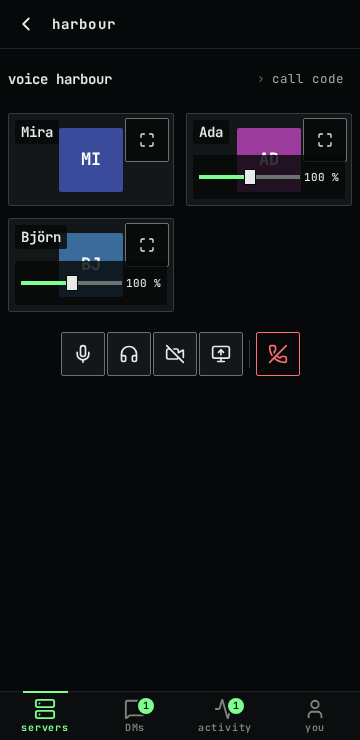
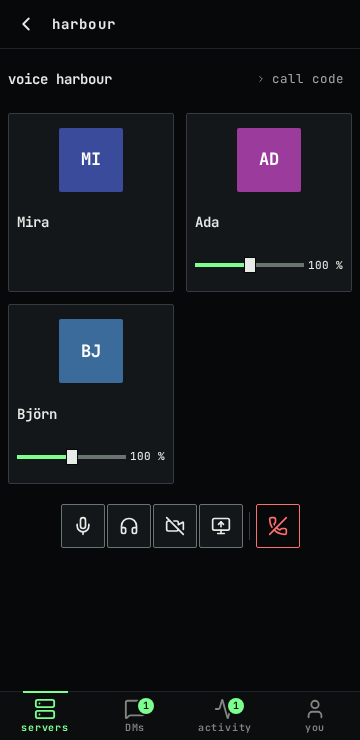
fix(ui): a usable phone stage, full screen only for media, no dead dock CSS
The phone stage at 360 px was two columns of small 16:9 boxes with the volume over the
face: app.css's DM-call compact grid also hit the voice stage. That grid and its tile
padding now apply to the DM call only. On a phone the stage tiles fill the width, one
column for up to two tiles and two columns above (CallStage marks data-many); a tile is
a column in normal flow (the 16:9 media or avatar, the caption, the volume under it).

Final review m8: the full-screen button (and the double-click) is offered only for a
tile that shows media, never an avatar, and only where document.fullscreenEnabled.

Final review m1: the narrow-desktop rules for a dock inside the sidebar are gone; WS6
moved the dock into AppShell's bottom area.

voice-stage-phone.png and voice-stage-desktop.png are shot again.

Claude-Session: https://claude.ai/code/session_01XLFud8eoDaqf8uiZq5wjuP

diff --git a/packages/web/src/app.css b/packages/web/src/app.css
@@ -96,26 +96,14 @@ html, body { margin: 0; height: 100%; background: var(--bg); }
   .dw-dm-call[data-view="messages"] { flex: 0 0 auto; }
   .dw-dm-call[data-view="messages"] .dw-voice-stage { display: none; }
   /* Compact tiles keep the call controls in reach at 360 (review m10); the pause action is a 44 px target (I4). */
-  .dw-voice-stage .d-call-stage__tiles { grid-template-columns: repeat(auto-fill, minmax(min(100%, 9rem), 1fr)); }
-  .dw-voice-stage .d-call-tile { min-height: 0; padding: 0.5rem; }
+  /* web3.8 FX: only the DM call's compact grid; the voice stage (data-tiles="stage") lays out its own phone tiles. */
+  .dw-voice-stage .d-call-stage__tiles:not([data-tiles="stage"]) { grid-template-columns: repeat(auto-fill, minmax(min(100%, 9rem), 1fr)); }
+  .dw-voice-stage .d-call-tile:not([data-stage]) { min-height: 0; padding: 0.5rem; }
   /* Product walk I5: at 360 the stage is in normal flow, its controls under the tiles; nothing floats over a tile. */
   .dw-voice-stage .d-call-stage__controls { position: static; padding-block: 0.5rem; }
   .dw-dm-call .d-call-stage__controls { position: static; }
   .dw-voice-dock__paused .d-btn, .dw-voice-dock__audio .d-btn { min-height: 2.75rem; }
   .dw-voice-dock__mode .d-btn { min-height: 2.75rem; }
-  /* The desktop's narrow sidebar scrolls as one column (a phone shows one pane at a time, so these do not apply to it): the
-     list and the dock stack instead of overlapping. Product walk I4: the dock is pinned to the bottom of that column, so its
-     controls stay on screen while a text channel is read; it is compact there (where and meter on one line, the five
-     controls on the next, in one row: the voice toolbar's own flex layout, with leave set apart; review round 1 of the voice
-     icons, #1). */
-  .d-app-shell:not([data-layout="phone"]) .dw-sidebar { height: auto; }
-  .d-app-shell:not([data-layout="phone"]) .dw-sidebar > .d-channel-list { flex: none; height: auto; }
-  .d-app-shell:not([data-layout="phone"]) .dw-sidebar > .dw-voice-dock { position: sticky; bottom: 0; z-index: 1; border-top: 1px solid var(--hairline); }
-  .d-app-shell:not([data-layout="phone"]) .dw-sidebar .d-voice-dock { grid-template-columns: minmax(0, 1fr) minmax(0, 1fr); gap: 0.375rem 0.75rem; padding: 0.5rem; border-radius: 0; }
-  .d-app-shell:not([data-layout="phone"]) .dw-sidebar .d-voice-dock__where { align-self: center; }
-  /* With no meter beside it, the status takes the whole row; a name too long for it still ends in an ellipsis. */
-  .d-app-shell:not([data-layout="phone"]) .dw-sidebar .d-voice-dock__where:not(:has(+ .d-voice-dock__meter)) { grid-column: 1 / -1; }
-  .d-app-shell:not([data-layout="phone"]) .dw-sidebar .d-voice-dock__controls { grid-column: 1 / -1; }
 }
 /* web3.8 (R9, pre-flight C-7): the container rules above cannot see the viewport, and a landscape phone's shell is wide, so each
    phone rule has a twin keyed on the shell's own data-layout, with identical declarations; layout.test.ts pins the pairs. */
@@ -128,8 +116,8 @@ html, body { margin: 0; height: 100%; background: var(--bg); }
 [data-layout="phone"] .d-app-shell__main:has(.dw-dm-call[data-view="stage"]) .d-composer { display: none; }
 [data-layout="phone"] .dw-dm-call[data-view="messages"] { flex: 0 0 auto; }
 [data-layout="phone"] .dw-dm-call[data-view="messages"] .dw-voice-stage { display: none; }
-[data-layout="phone"] .dw-voice-stage .d-call-stage__tiles { grid-template-columns: repeat(auto-fill, minmax(min(100%, 9rem), 1fr)); }
-[data-layout="phone"] .dw-voice-stage .d-call-tile { min-height: 0; padding: 0.5rem; }
+[data-layout="phone"] .dw-voice-stage .d-call-stage__tiles:not([data-tiles="stage"]) { grid-template-columns: repeat(auto-fill, minmax(min(100%, 9rem), 1fr)); }
+[data-layout="phone"] .dw-voice-stage .d-call-tile:not([data-stage]) { min-height: 0; padding: 0.5rem; }
 [data-layout="phone"] .dw-voice-stage .d-call-stage__controls { position: static; padding-block: 0.5rem; }
 [data-layout="phone"] .dw-dm-call .d-call-stage__controls { position: static; }
 [data-layout="phone"] .dw-voice-dock__paused .d-btn, [data-layout="phone"] .dw-voice-dock__audio .d-btn { min-height: 2.75rem; }

diff --git a/packages/ui/src/CallStage/CallStage.css.test.ts b/packages/ui/src/CallStage/CallStage.css.test.ts
@@ -1,0 +1,54 @@
+// @vitest-environment node
+// web3.8 FX (final review, the cramped phone stage): jsdom cannot lay out, so the phone rules are pinned as text; the docs
+// shoot (voice-stage-phone.png) shows them in a real browser.
+import { readFileSync } from 'node:fs';
+import { fileURLToPath } from 'node:url';
+import { describe, it, expect } from 'vitest';
+
+const stage = readFileSync(fileURLToPath(new URL('./CallStage.css', import.meta.url)), 'utf8');
+const tile = readFileSync(fileURLToPath(new URL('../CallTile/CallTile.css', import.meta.url)), 'utf8');
+const PHONE = '@media (max-width: 47.99rem), (pointer: coarse) and (max-height: 31.99rem) {';
+
+/** The bodies of every phone @media block of `css`, joined. */
+function phone(css: string): string {
+  const out: string[] = [];
+  let at = css.indexOf(PHONE);
+  while (at >= 0) {
+    let depth = 0;
+    let end = at + PHONE.length - 1;
+    for (; end < css.length; end += 1) {
+      if (css[end] === '{') depth += 1;
+      else if (css[end] === '}' && (depth -= 1) === 0) break;
+    }
+    out.push(css.slice(at + PHONE.length, end));
+    at = css.indexOf(PHONE, end);
+  }
+  return out.join('\n');
+}
+
+/** The declarations of the last rule in `css` whose selector list contains `selector`. */
+function rule(css: string, selector: string): string {
+  const all = [...css.replace(/\/\*[\s\S]*?\*\//g, '').matchAll(/([^{}]+)\{([^{}]*)\}/g)]
+    .filter(m => m[1].split(',').map(s => s.trim()).includes(selector));
+  if (all.length === 0) throw new Error(`no rule for ${selector}`);
+  return all[all.length - 1][2];
+}
+
+describe('the phone stage (CSS pin)', () => {
+  it('up to two tiles: one column across the width; three or more: two columns', () => {
+    expect(rule(phone(stage), '.d-call-stage__tiles[data-tiles="stage"]')).toMatch(/grid-template-columns: minmax\(0, 1fr\)/);
+    expect(rule(phone(stage), '.d-call-stage .d-call-stage__tiles[data-tiles="stage"][data-many]')).toMatch(/grid-template-columns: repeat\(2, minmax\(0, 1fr\)\)/);
+    expect(rule(phone(stage), '.d-call-stage[data-focused-stage] .d-call-stage__tiles[data-tiles="stage"][data-many]')).toMatch(/repeat\(2, minmax\(0, 1fr\)\)/);
+  });
+
+  it('a phone tile is as tall as its content, not a 16:9 box', () => {
+    expect(rule(phone(stage), '.d-call-stage__tile[data-stage]')).toMatch(/aspect-ratio: auto/);
+    expect(rule(phone(tile), '.d-call-tile[data-stage] .d-call-tile__avatar')).toMatch(/position: relative;[^}]*aspect-ratio: 16 \/ 9/);
+  });
+
+  it('the volume is in flow under the caption, never over the face', () => {
+    expect(rule(phone(tile), '.d-call-tile[data-stage]')).toMatch(/flex-direction: column/);
+    expect(rule(phone(tile), '.d-call-tile[data-stage] .d-call-tile__caption')).toMatch(/position: static/);
+    expect(rule(phone(tile), '.d-call-tile[data-stage] .d-call-tile__volume')).toMatch(/position: static/);
+  });
+});

diff --git a/packages/ui/src/CallTile/CallTile.css b/packages/ui/src/CallTile/CallTile.css
@@ -50,7 +50,6 @@
 .d-call-tile__volume input::-webkit-slider-thumb { -webkit-appearance: none; appearance: none; width: 0.75rem; height: 1rem; margin-top: -0.375rem; background: var(--fg); border: 1px solid var(--bg); border-radius: 0; }
 .d-call-tile__volume input::-moz-range-thumb { width: 0.75rem; height: 1rem; background: var(--fg); border: 1px solid var(--bg); border-radius: 0; }
 .d-call-tile__volume input:focus-visible { outline: var(--focus-ring); outline-offset: 2px; }
-@media (max-width: 47.99rem), (pointer: coarse) and (max-height: 31.99rem) { .d-call-tile__volume input { min-height: 2.75rem; } .d-call-tile .d-call-tile__fullscreen { width: 2.75rem; height: 2.75rem; } }
 
 /* On the stage (U4, `data-stage`): the tile fills its 16:9 li. The focus button covers the media; the caption sits over its
    top left, the full-screen button over its top right and the volume over its bottom, all as siblings of the focus button
@@ -82,3 +81,17 @@
 }
 /* The range keeps its accessible name from the label; on the stage the label is not drawn. */
 .d-call-tile[data-stage] .d-call-tile__volume-label { position: absolute; width: 1px; height: 1px; overflow: hidden; clip-path: inset(50%); white-space: nowrap; }
+
+/* The phone (flow 06): 44 px targets. web3.8 FX: the stage tile is a column in normal flow, so nothing covers the face: the media or the avatar (16:9), then
+   the caption, then the volume under it. The full-screen button (media tiles only) stays over the media's top right. */
+@media (max-width: 47.99rem), (pointer: coarse) and (max-height: 31.99rem) {
+  .d-call-tile__volume input { min-height: 2.75rem; }
+  .d-call-tile .d-call-tile__fullscreen { width: 2.75rem; height: 2.75rem; }
+  .d-call-tile[data-stage] { display: flex; flex-direction: column; justify-content: flex-start; height: 100%; }
+  .d-call-tile[data-stage] .d-call-tile__focus { position: relative; inset: auto; display: flex; flex-direction: column; height: auto; }
+  .d-call-tile[data-stage] .d-call-tile__media, .d-call-tile[data-stage] .d-call-tile__avatar { position: relative; inset: auto; width: 100%; aspect-ratio: 16 / 9; }
+  .d-call-tile[data-stage] .d-call-tile__caption {
+    position: static; max-width: 100%; padding: 0.375rem 0.5rem 0.25rem; background: none; border-radius: 0;
+  }
+  .d-call-tile[data-stage] .d-call-tile__volume { position: static; width: auto; padding: 0 0.5rem 0.25rem; background: none; border-radius: 0; }
+}

diff --git a/packages/ui/src/CallStage/CallStage.test.tsx b/packages/ui/src/CallStage/CallStage.test.tsx
@@ -281,6 +281,29 @@ describe('CallStage', () => {
       expect(request).toHaveBeenCalledTimes(1);
     });
 
+    it('web3.8 FX m8: an avatar-only tile has no full-screen button and no double-click full screen; a tile with media has', async () => {
+      const request = vi.fn(() => Promise.resolve());
+      Object.defineProperty(HTMLElement.prototype, 'requestFullscreen', { configurable: true, value: request });
+      setFullscreen(true);
+      render(<CallStage {...base} tiles={[src('ada', 'camera', sA), src('bo', 'camera', null), src('cy', 'avatar', null)]}
+        focusedId={null} onFocus={() => {}} />);
+      expect(screen.getByRole('button', { name: 'full screen ada' })).toBeInTheDocument();
+      expect(screen.queryByRole('button', { name: 'full screen bo' })).toBeNull();
+      expect(screen.queryByRole('button', { name: 'full screen cy' })).toBeNull();
+      await userEvent.dblClick(focusBtn('bo'));
+      await userEvent.dblClick(focusBtn('cy'));
+      expect(request).not.toHaveBeenCalled();
+    });
+
+    it('web3.8 FX: the stage list says when it holds more than two tiles (the phone lays those out in two columns)', () => {
+      const { container, rerender } = render(<CallStage {...base} tiles={[src('ada', 'camera', sA), src('bo', 'avatar', null)]}
+        focusedId={null} onFocus={() => {}} />);
+      expect(container.querySelector('ul')).not.toHaveAttribute('data-many');
+      rerender(<CallStage {...base} tiles={[src('ada', 'camera', sA), src('bo', 'avatar', null), src('cy', 'avatar', null)]}
+        focusedId={null} onFocus={() => {}} />);
+      expect(container.querySelector('ul')).toHaveAttribute('data-many', 'true');
+    });
+
     it('there is no full-screen button when the document cannot do full screen', () => {
       setFullscreen(false);
       render(<Harness />);

diff --git a/packages/web/src/app-css.test.ts b/packages/web/src/app-css.test.ts
@@ -11,9 +11,17 @@ const phone = /@container d-shell \(max-width: 47\.99rem\) \{([\s\S]*?)\n\}/.exe
 const rule = (block: string, selector: string) => new RegExp(`(^|\\n)\\s*${selector.replace(/[.*+?^${}()|[\]\\]/g, '\\$&')}\\s*\\{([^}]*)\\}`).exec(block)?.[2] ?? '';
 
 describe('the phone layout of voice (360 px)', () => {
-  it('I4: the dock is pinned to the bottom of the sidebar column, so it stays on screen while a text channel is read', () => {
+  it('web3.8 FX m1: no rule for a dock inside the sidebar is left (WS6 moved the dock to the shell\'s bottom area)', () => {
     expect(phone).not.toBe('');
-    expect(rule(phone, '.d-app-shell:not([data-layout="phone"]) .dw-sidebar > .dw-voice-dock')).toMatch(/position:\s*sticky;\s*bottom:\s*0/);
+    expect(css).not.toMatch(/\.dw-sidebar[^{,]*\.d[w]?-voice-dock/);
+    expect(css).not.toMatch(/:not\(\[data-layout="phone"\]\) \.dw-sidebar/);
+  });
+
+  it('web3.8 FX: the compact phone grid is the DM call\'s only; the voice stage keeps its own phone tiles', () => {
+    expect(rule(phone, '.dw-voice-stage .d-call-stage__tiles:not([data-tiles="stage"])')).toMatch(/grid-template-columns/);
+    expect(rule(phone, '.dw-voice-stage .d-call-tile:not([data-stage])')).toMatch(/padding: 0\.5rem/);
+    expect(css).not.toMatch(/\.dw-voice-stage \.d-call-stage__tiles \{/);
+    expect(css).not.toMatch(/\.dw-voice-stage \.d-call-tile \{/);
   });
 
   it('I5: no stage toolbar floats over the tiles: the controls are in normal flow', () => {

diff --git a/packages/ui/src/CallStage/CallStage.css b/packages/ui/src/CallStage/CallStage.css
@@ -62,10 +62,16 @@
     align-content: start; overflow-x: hidden; overflow-y: auto;
   }
   .d-call-stage[data-focused-stage] .d-call-stage__tiles[data-tiles="stage"]::before { display: none; }
+  /* web3.8 FX: a phone tile is as tall as what it holds (its 16:9 media or avatar, the caption, the volume under it). */
   .d-call-stage__tile[data-stage], .d-call-stage[data-focused-stage] .d-call-stage__tile[data-stage],
   .d-call-stage[data-focused-stage] .d-call-stage__tile[data-stage][data-focused="true"] {
-    grid-row: auto; grid-column: auto; position: relative; width: 100%; height: auto; aspect-ratio: 16 / 9; max-width: 100%;
+    grid-row: auto; grid-column: auto; position: relative; width: 100%; height: auto; aspect-ratio: auto; max-width: 100%;
   }
-  .d-call-stage[data-focused-stage] .d-call-stage__tile[data-stage][data-focused="true"] { order: -1; }
+  /* web3.8 FX: up to two tiles fill the width one under the other; three or more go in two columns, a focused one first
+     and across both. */
+  .d-call-stage .d-call-stage__tiles[data-tiles="stage"][data-many], .d-call-stage[data-focused-stage] .d-call-stage__tiles[data-tiles="stage"][data-many] {
+    grid-template-columns: repeat(2, minmax(0, 1fr));
+  }
+  .d-call-stage[data-focused-stage] .d-call-stage__tile[data-stage][data-focused="true"] { order: -1; grid-column: 1 / -1; }
   .d-call-stage[data-focused-stage] .d-call-stage__tile[data-stage][data-focused="false"] .d-call-tile__volume { display: grid; }
 }

diff --git a/packages/ui/src/CallTile/CallTile.tsx b/packages/ui/src/CallTile/CallTile.tsx
@@ -134,7 +134,8 @@ export function CallTile({ view, own, volume, media, mirror = false, labels, onV
   const isScreen = source === 'screen';
   const showMedia = media !== null && view.state !== 'unverified' && source !== 'avatar';
   const words = isScreen ? [] : voiceStateWords(view, labels.state);
-  const canFullscreen = fullscreenLabel !== undefined && document.fullscreenEnabled === true;
+  // web3.8 FX m8: full screen only for a tile that shows media (never an avatar), and only where the document can do it.
+  const canFullscreen = fullscreenLabel !== undefined && showMedia && document.fullscreenEnabled === true;
   const toggleFullscreen = () => {
     const li = liRef.current;
     if (!li) return;

diff --git a/packages/ui/src/CallStage/CallStage.tsx b/packages/ui/src/CallStage/CallStage.tsx
@@ -177,6 +177,7 @@ export function CallStage({ title, tiles: allTiles, focusedId = null, onFocus, c
         notice === null ? <p className="d-call-stage__empty">{labels.empty}</p> : null
       ) : (
         <ul ref={tilesRef} role="list" aria-label={labels.tiles} className="d-call-stage__tiles" data-tiles={stageMode ? 'stage' : undefined}
+          data-many={tiles.length > 2 ? 'true' : undefined}
           style={focusedLayout ? { '--d-strip-n': Math.max(1, tiles.length - 1) } as React.CSSProperties : undefined}>
           {tiles.map(t => {
             const id = idOf(t);
